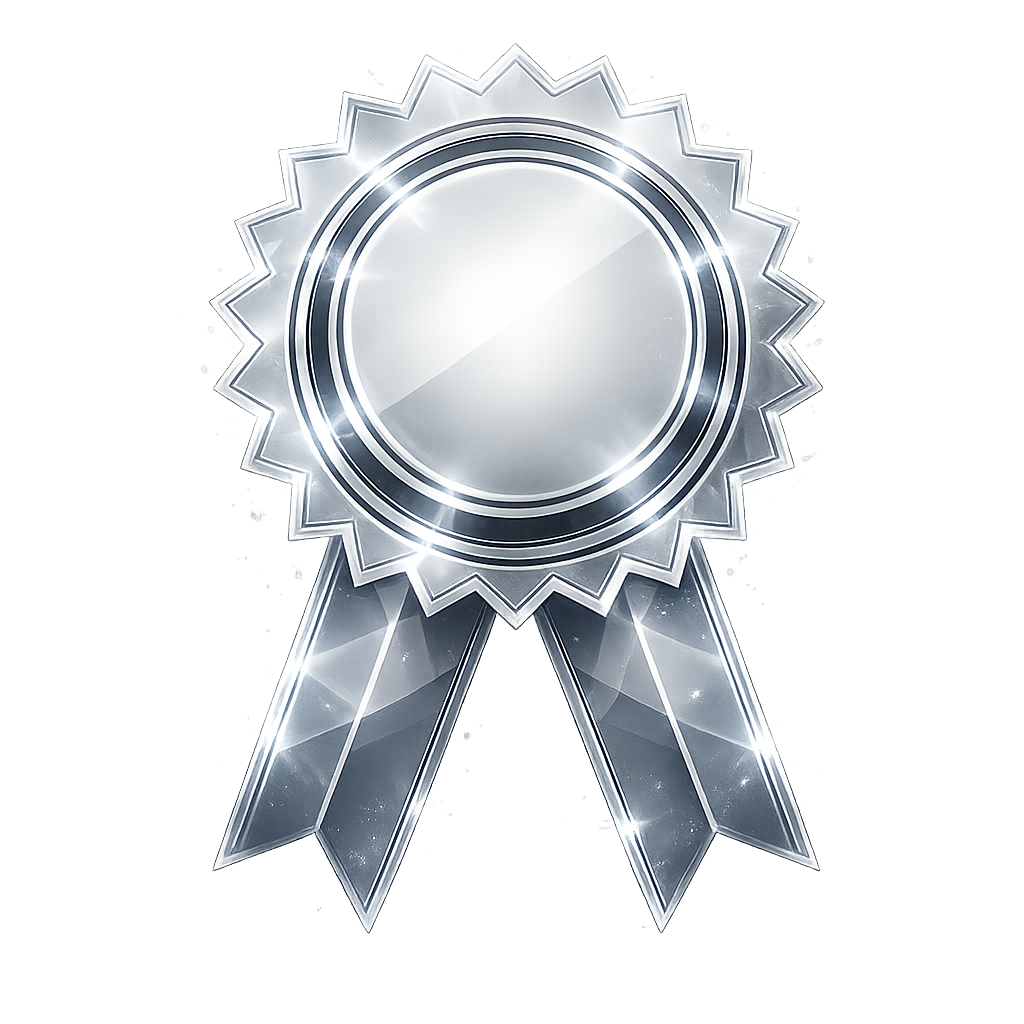
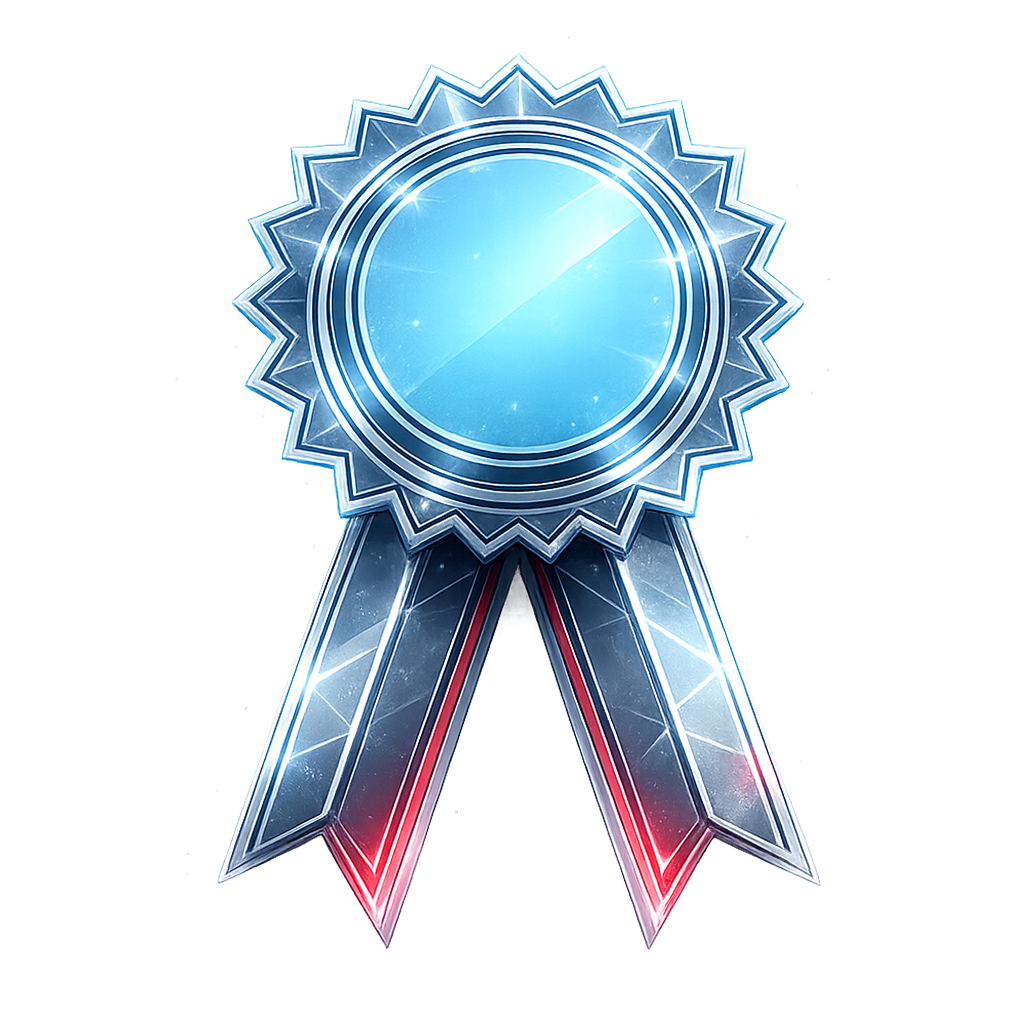
made game screen more visually pleasing

diff --git a/game/game.css b/game/game.css
@@ -1,10 +1,9 @@
 body{
     margin: 0;
     padding: 0;
-
+    overflow: hidden;
     display: flex;
     flex-direction: row;
-    overflow: hidden; /* hide the scroll bar */
     background-color: rgb(0, 0, 0);
     color: rgb(255, 255, 255);
 
@@ -45,7 +44,7 @@ body{
 
 /* game console */
 #game_console{
-    height: 100vh;
+    height: 1000px;
     flex: 1; /* makes the console fill up any available space */
     min-width: 0; /* allows to be scaled down infinitely */
 
@@ -118,9 +117,9 @@ body{
 /* Container */
 #robot_ui{
     position: fixed;
-    bottom: 20px;
+    top: 75vh;
     left: 20px;
-    z-index: 9998;
+    z-index: 998;
 
     display: flex;
     align-items: center;
@@ -128,7 +127,7 @@ body{
 
 /* Robot */
 #robot_corner{
-    width: 72px;
+    width: 15vh;
     height: auto;
 
     pointer-events: none;
@@ -210,7 +209,8 @@ body{
 }
 /* close button */
 .close{
-    right: 0;
+    right: 5px;
+    top:5px;
     position: absolute;
     border-radius: 10px;
     width: 30px;

diff --git a/game/game_console/game_console.css b/game/game_console/game_console.css
@@ -24,7 +24,6 @@
 
 /* win screen */
 #win_screen{
-    padding-bottom: 12px;
     width: 30vw;
     min-width: 20rem; /* prevent win screen from apeparing too small */
     z-index: 999; /* should appear over everything */ 
@@ -36,6 +35,7 @@
     flex-direction: column;
     align-items: center;
     position: fixed;
+    top: 50vh;
     transform: translate(-50%, -50%); /* so that it can be centred */
     background:
 		radial-gradient(120% 90% at 50% 0%, rgba(120,190,255,0.18), transparent 55%),
@@ -59,9 +59,7 @@
 .badges img{
     margin: 3px;
 	width: 7vw;
-	min-width: 2rem;
 	height: 7vw;
-	min-height: 2rem;
 }
 .badges p{
     font-size: 2vh;

diff --git a/game/game.html b/game/game.html
@@ -39,7 +39,7 @@
             <div id="map"><p>Level: Test</p></div>
 
             <div id = "misc">
-                <button id="help">?</button>
+                <button id="help" onclick = "enableScroll()">?</button>
                 <button id="settings">#</button>
             </div>
         </div>
@@ -89,7 +89,7 @@
 
     <!-- Help (hidden until button pressed) -->
     <div id="help_menu">
-        <button id="help_close" class="close">X</button>
+        <button id="help_close" class="close" onclick = "disableScroll()">X</button>
 
         <!-- Player Functions -->
         <section class="help_section">

diff --git a/game/game_console/game_console.js b/game/game_console/game_console.js
@@ -78,3 +78,17 @@ settings_close.addEventListener("click", () => {
 
     open = false;
 });
+
+
+function enableScroll() {
+    document.body.style.overflowY = "visible";
+}
+
+window.enableScroll = enableScroll;
+
+
+function disableScroll() {
+    document.body.style.overflowY = "hidden";
+}
+
+window.disableScroll = disableScroll;
